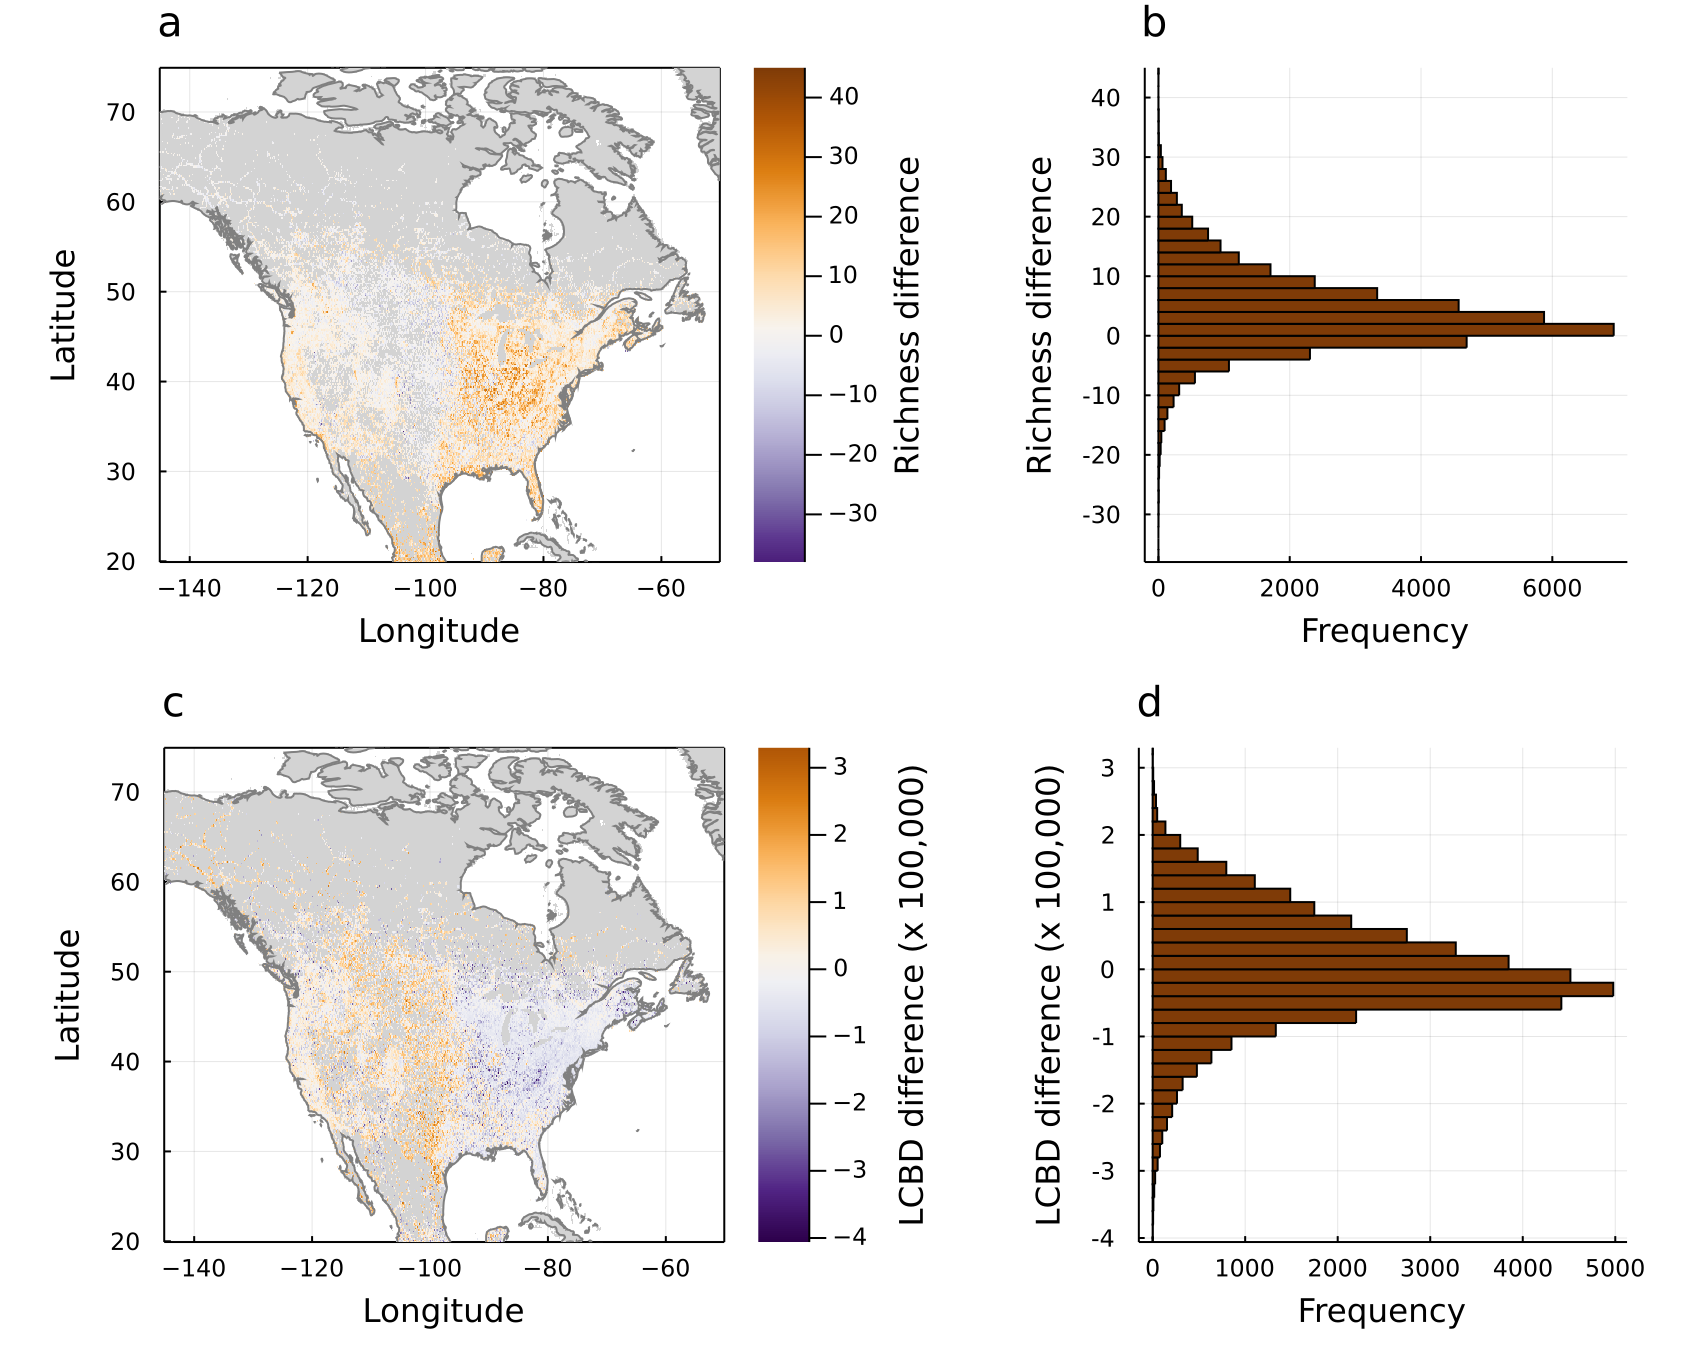
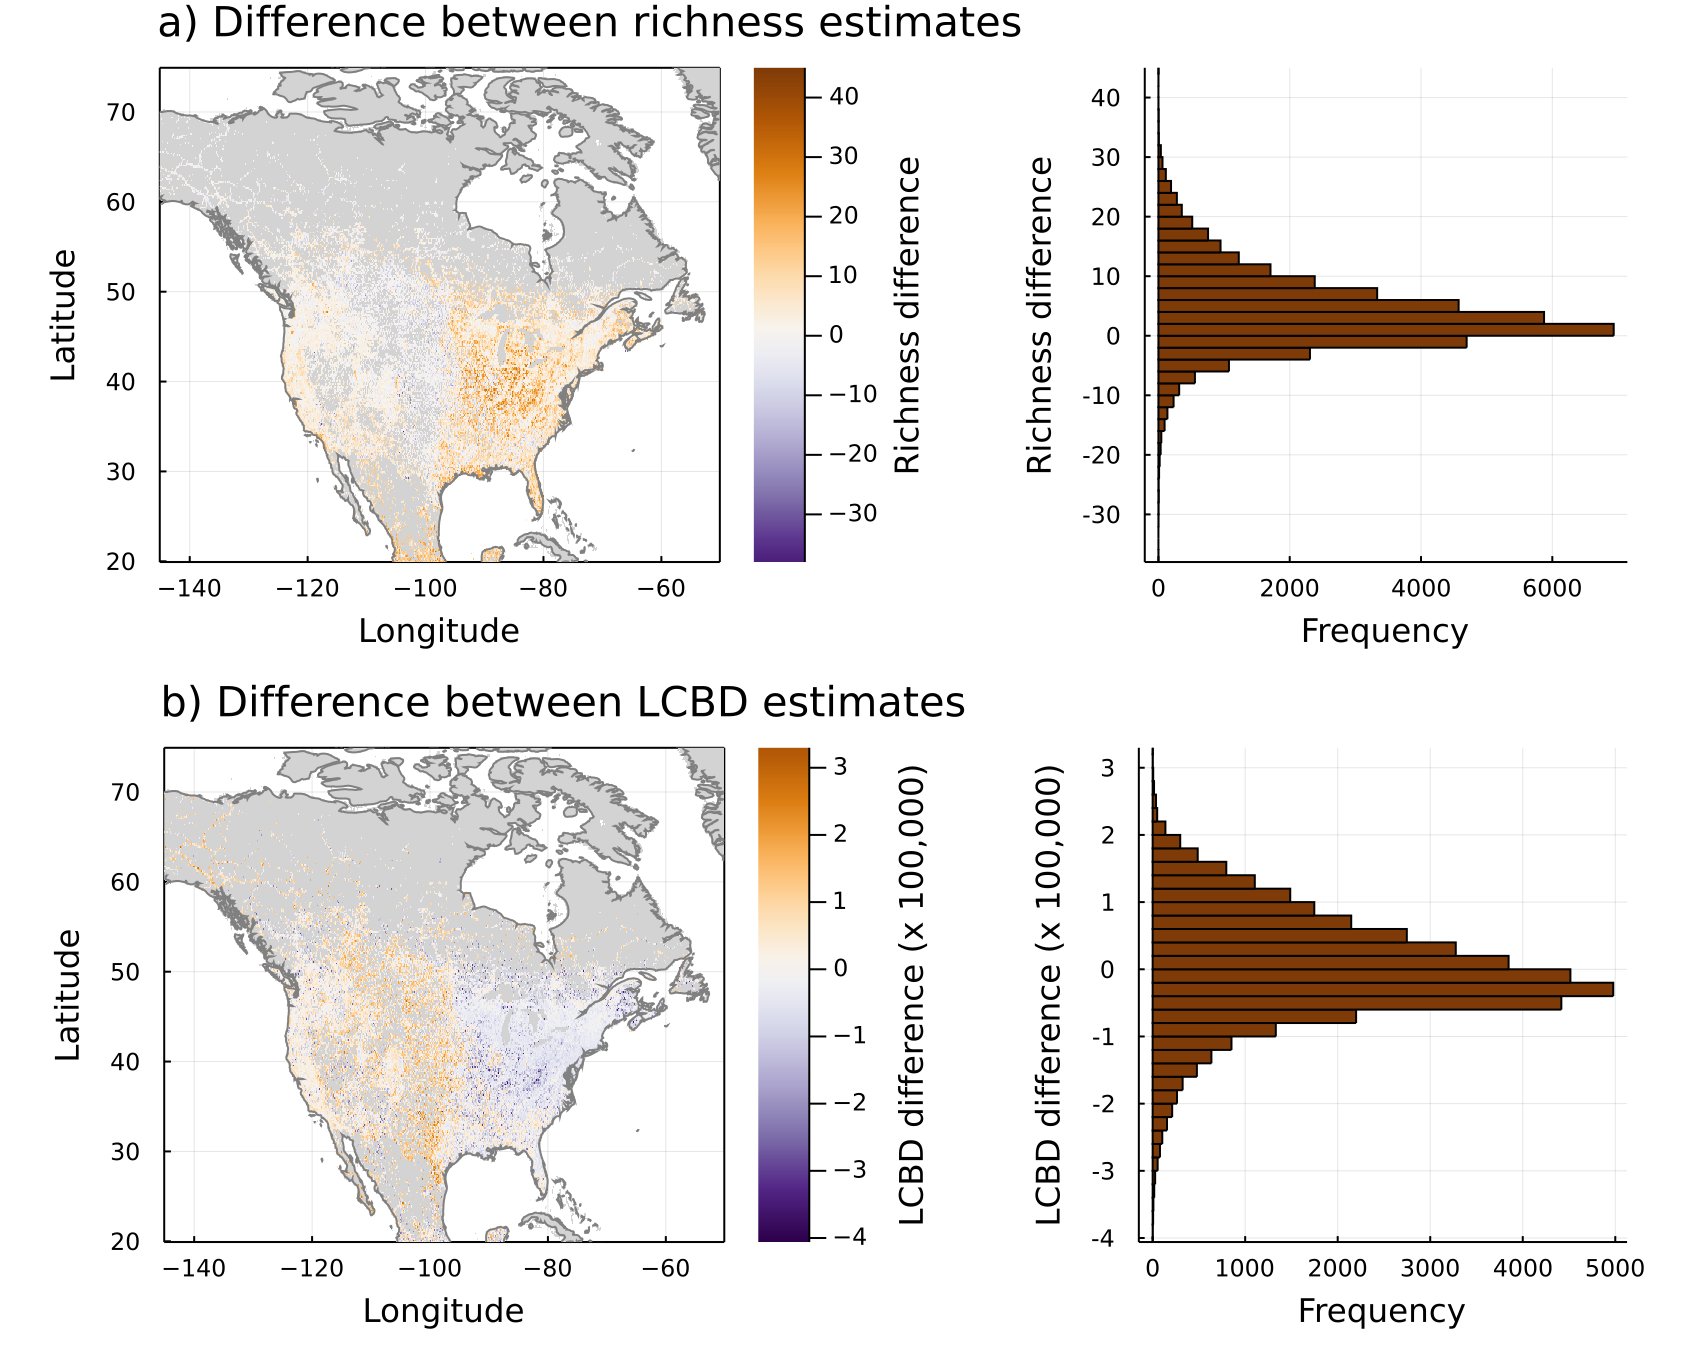
🎨 more informative subtitles on res/diffplot figs

diff --git a/article1.md b/article1.md
@@ -34,7 +34,7 @@ We used the method of @Legendre2013BetDiv to quantify compositional uniqueness 
 
 ## Comparison of observed and predicted values
 
-We performed three verifications in order to compare the species richness and uniqueness estimates obtained from our predicted species distributions to the ones obtained with the occurrence data from eBird. First, we performed a direct comparison by subtracting the richness and LCBD estimates obtained from $Y$ (the observed data) from the estimates obtained from $\hat{Y}$ (the predicted data). To do so, we used the richness estimates as-is, but modified the LCBD values to achieve a non biased comparison, given that the original values are calculated for the same sites, but on sets of different length. We therefore recomputed the LCBD scores only for the sites for which we had occurrences in both $Y$ and $\hat{Y}$, which mostly corresponded to the sites in $Y$, minus a few sites where the SDMs predict no species occurrence. We then plotted the richness and LCBD differences to examine their spatial distributions. Second, we performed the modified _t_ test from @Clifford1989AssSig to assess the correlation between the observed and predicted estimates and test for spatial autocorrelation. We performed the test separately for the richness and the LCBD estimates. We used the `modified.ttest` function from the package `SpatialPack` [@Vallejos2020SpaRel] in _R_.Third, we performed Generalized Linear Models between the observed and predicted estimates and plotted the residuals to examine their spatial distribution. We used a negative binomial regression with a log link function using the package `MASS` [@Venables2002ModApp] in _R_ for the richness estimates as our values showed overdispersion. We used a beta regression with a logit link function using the package `betareg` [@Cribari-Neto2010BetReg] for the LCBD values as they vary between 0 and 1, similar to @Heino2017ExpSpe and @Yao2021EcoUni.
+We performed three verifications in order to compare the species richness and uniqueness estimates obtained from our predicted species distributions to the ones obtained with the occurrence data from eBird. First, we performed a direct comparison by subtracting the richness and LCBD estimates obtained from $Y$ (the observed data) from the estimates obtained from $\hat{Y}$ (the predicted data). To do so, we used the richness estimates as-is, but modified the LCBD values to achieve a non biased comparison, given that the original values are calculated for the same sites, but on sets of different length. We therefore recomputed the LCBD scores only for the sites for which we had occurrences in both $Y$ and $\hat{Y}$, which mostly corresponded to the sites in $Y$, minus a few sites where the SDMs predict no species occurrence. We then plotted the richness and LCBD differences to examine their spatial distributions. Second, we performed the modified _t_ test from @Clifford1989AssSig to assess the correlation between the observed and predicted estimates and test for spatial autocorrelation. We performed the test separately for the richness and the LCBD estimates. We used the `modified.ttest` function from the package `SpatialPack` [@Vallejos2020SpaRel] in _R_.Third, we performed Generalized Linear Models between the observed and predicted estimates and plotted the residuals to examine their spatial distribution. We used a negative binomial regression with a log link function using the package `MASS` [@Venables2002ModApp] in _R_ for the richness estimates as our values showed overdispersion [@Fletcher2018SpaEco]. We used a beta regression with a logit link function using the package `betareg` [@Cribari-Neto2010BetReg] for the LCBD values as they vary between 0 and 1, similar to @Heino2017ExpSpe and @Yao2021EcoUni.
 
 ## Investigation of regional and scaling variation
 
@@ -54,7 +54,7 @@ The species distribution models generated richness and uniqueness results that m
 
 ![Comparison between observed and predicted estimates of species richness (a, b) and ecological uniqueness (c, d). The difference values represent the estimate from the predicted data set minus the estimate from the observed data set. The difference values for richness ranged between -38 and 45 (a, b). LCBD values were recalculated for the same set of sites with observations in both data sets. Recalculated LCBD ranged between 1.450e-5 and 5.910e-5 for observation data and between 1.117e-5 and 5.132e-5 for SDM data. The difference values for LCBD scores ranged between -4.060e-5 and 3.297e-5 (c, d)](figures/comparison-combined.png){#fig:comparison-combined}
 
-![Comparison of the regression residuals between the observed and predicted estimates of species richness (a, b) and ecological uniqueness (c, d). The estimate from the predicted data set was used as the dependent variable and the estimate from the observed data set as the independent variable. A Poisson regression was used for species richness and a Beta regression was used for uniqueness. The deviance residuals for richness ranged between -3.591 and 4.654 (a, b). LCBD values were recalculated for the same set of sites with observations in both data sets. The deviance residuals for LCBD scores ranged between -4.866 and 2.799.](figures/residuals_combined.png){#fig:residuals-combined}
+![Comparison of the regression residuals between the observed and predicted estimates of species richness (a, b) and ecological uniqueness (c, d). The estimate from the predicted data set was used as the dependent variable and the estimate from the observed data set as the independent variable. A negative binomial regression with a log link function was used for species richness and a beta regression with a logit link function was used for uniqueness. The deviance residuals for richness ranged between -3.591 and 4.654 (a, b). LCBD values were recalculated for the same set of sites with observations in both data sets. The deviance residuals for LCBD scores ranged between -4.866 and 2.799.](figures/residuals-combined.png){#fig:residuals-combined}
 
 ## Uniqueness displays regional variation as two distinct profiles
 
